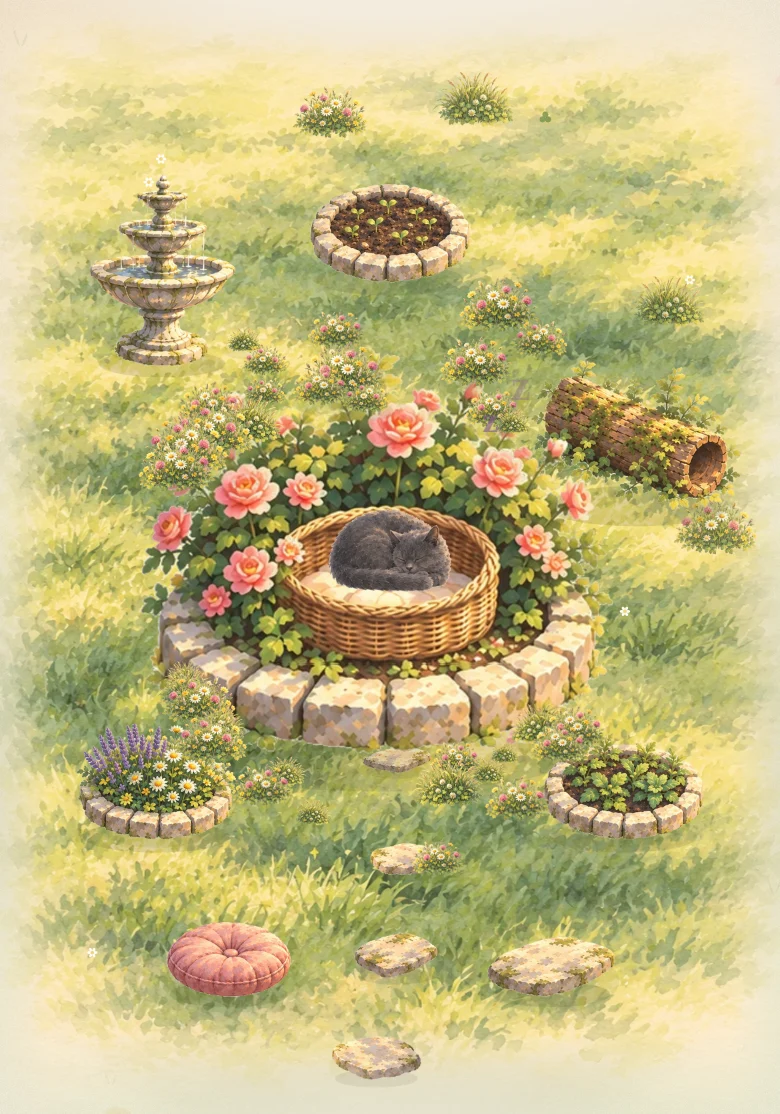
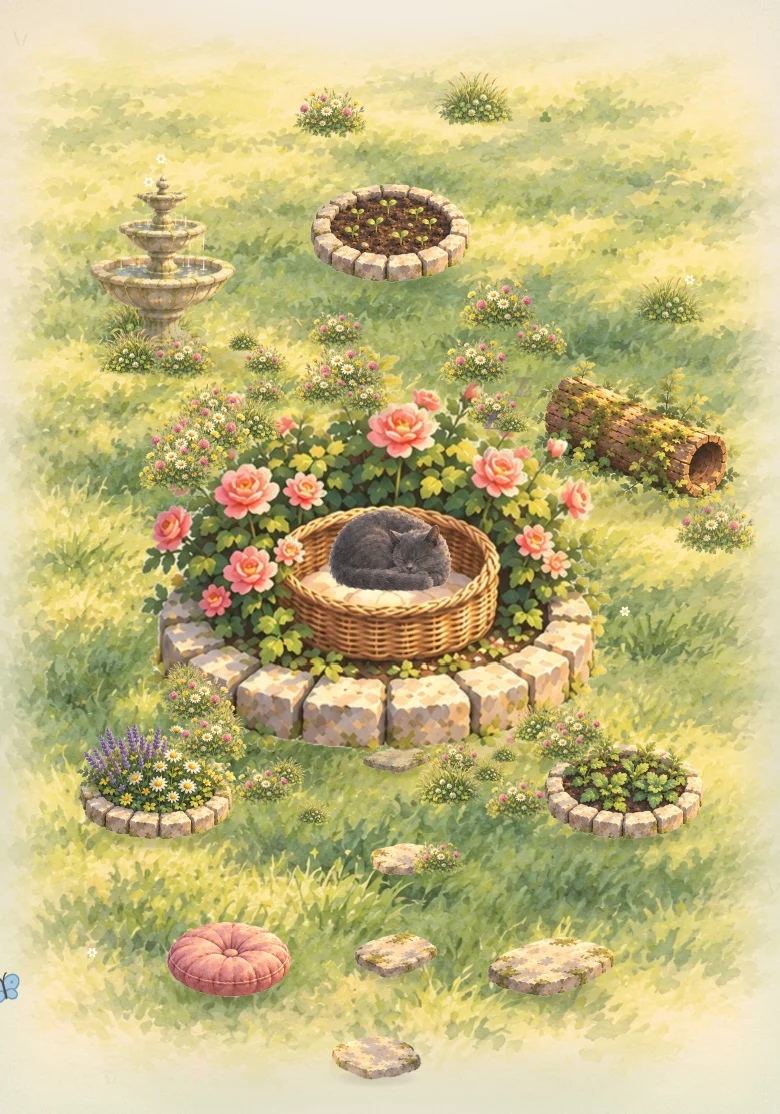
Seat the painted fountain in the lawn
Owner review: the fountain looked like a placed image, where the log did
not. The log is painted in ivy that spills onto the grass. The fountain
had a hard base edge, cooler light than the lawn, and almost no shadow.

It is now relit for the lawn: warmed by the same sunlight and darker
towards its foot (cached per size). Painted grass and meadow hide its
plinth, and it casts a softer, stronger shadow. Every contact shadow is
now a soft radial fade rather than a flat ellipse.

Claude-Session: https://claude.ai/code/session_012nyyi4csaEj4itTXifEHUn

Changed region(s): [[0.1231, 0.1526, 0.3077, 0.3662], [0.0, 0.8546, 0.0308, 0.9156], [0.6154, 0.3662, 0.6462, 0.3968]]

diff --git a/index.html b/index.html
@@ -1165,8 +1165,36 @@
     g.restore(); return true;
   }
   // a soft contact shadow where a painted piece meets the lawn
+  // soft-edged: darkest under the piece, fading out into the grass
   function groundShadow(g, x, y, w, alpha = 0.16) {
-    g.fillStyle = `rgba(62,74,40,${alpha})`; g.beginPath(); g.ellipse(x, y - w * 0.02, w * 0.46, w * 0.1, 0, 0, TAU); g.fill();
+    g.save(); g.translate(x, y - w * 0.02); g.scale(1, 0.22);
+    const gr = g.createRadialGradient(0, 0, 0, 0, 0, w * 0.5);
+    gr.addColorStop(0, `rgba(52,64,32,${alpha * 1.4})`); gr.addColorStop(0.6, `rgba(52,64,32,${alpha})`); gr.addColorStop(1, 'rgba(52,64,32,0)');
+    g.fillStyle = gr; g.beginPath(); g.arc(0, 0, w * 0.5, 0, TAU); g.fill(); g.restore();
+  }
+  // A painted piece relit for the lawn: warmed by the same sunlight, and darker where it
+  // meets the ground. Cached per size. Pieces painted without planting around them need it.
+  const gradedCache = new Map();
+  function paintGraded(g, name, x, y, width) {
+    const img = artImage('garden'), f = img && ART.garden.frames[name];
+    if (!f) return false;
+    const key = `${name}:${Math.round(width * DPR)}`;
+    let c = gradedCache.get(key);
+    if (!c) {
+      const k = width * DPR / f[2], w = Math.ceil(f[2] * k), h = Math.ceil(f[3] * k);
+      c = document.createElement('canvas'); c.width = w; c.height = h;
+      const cg = c.getContext('2d');
+      cg.drawImage(img, f[0], f[1], f[2], f[3], 0, 0, w, h);
+      cg.globalCompositeOperation = 'source-atop';
+      cg.fillStyle = 'rgba(236,205,120,0.2)'; cg.fillRect(0, 0, w, h);
+      const ao = cg.createLinearGradient(0, h * 0.55, 0, h);
+      ao.addColorStop(0, 'rgba(70,78,40,0)'); ao.addColorStop(1, 'rgba(70,78,40,0.34)');
+      cg.fillStyle = ao; cg.fillRect(0, 0, w, h);
+      gradedCache.set(key, c);
+    }
+    const k = width / f[2];
+    g.drawImage(c, x - f[4] * k, y - f[5] * k, width, f[3] * k);
+    return true;
   }
   // The painted lawn, feathered at its edges into the paper, cached per scene size.
   let lawnCache = null;
@@ -1688,7 +1716,13 @@
       const d = m.deadwood, f = m.fountain;
       groundShadow(g, d.x, d.y + 6, d.width * 1.15); paintPiece(g, 'garden', 'log', d.x, d.y + 6, d.width * 1.2);
       drawPaintedRoseBed(g, m.roses);
-      groundShadow(g, f.x, f.y + 2, f.width * 1.2); paintPiece(g, 'garden', 'fountain', f.x, f.y + 2, f.width * 1.28);
+      // the fountain stands in the lawn rather than on it: relit, shadowed, with grass at its foot
+      const fw = f.width * 1.28, fy = f.y + 2;
+      groundShadow(g, f.x + fw * 0.08, fy, fw * 1.25, 0.24);
+      paintPiece(g, 'garden', 'grass', f.x - fw * 0.1, fy - fw * 0.06, fw * 0.8, false, 0.85);
+      paintGraded(g, 'fountain', f.x, fy, fw);
+      paintPiece(g, 'garden', 'grass', f.x - fw * 0.2, fy + fw * 0.07, fw * 0.5, true);
+      paintPiece(g, 'garden', 'meadow', f.x + fw * 0.14, fy + fw * 0.09, fw * 0.44);
     } else {
       drawDeadwood(g, m.deadwood, k, tier);
       drawRoseBed(g, m.roses, k, sc.nest, tier);

diff --git a/.scratch/erwu-painted-evidence/README.md b/.scratch/erwu-painted-evidence/README.md
@@ -14,3 +14,4 @@ These screenshots were taken in Chromium at phone sizes, with a test garden (no 
 Checks run:
 - `node --test tests/*.test.cjs`: 52 pass.
 - The browser suites `garden-browser`, `garden-view-browser`, `erwu-browser` and `erwu-render-browser` all pass with no page errors.
+- `fountain-grounded.webp`: the fountain relit into the lawn's light, darker at its foot, with grass around the plinth (owner review: it looked like a placed image).
